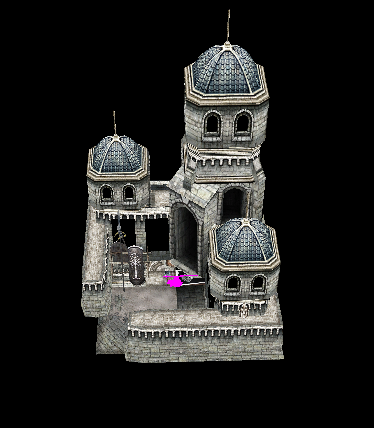
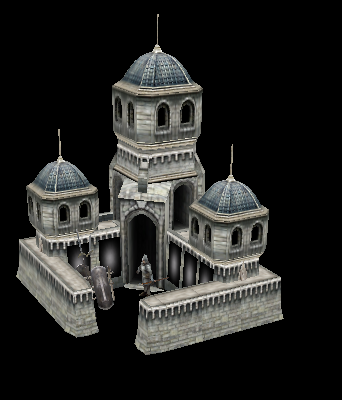
FInished skinning

diff --git a/src/chunks/material.cpp b/src/chunks/material.cpp
@@ -15,6 +15,8 @@ void MaterialPass::Load(std::ifstream & fin, uint32_t chunksize)
 
 		switch (type)
 		{
+		case TEXTURE_STAGE:
+			break;
 		case STAGE_TEXCOORDS:
 			Texcoords = readArray<Vector2f>(fin, subend);
 			break;

diff --git a/tools/w3d_view/model.cpp b/tools/w3d_view/model.cpp
@@ -179,7 +179,7 @@ void CompiledModel::ComputePose()
 		uint32_t size = bonestack.size();
 		for (int i = 0; i <size; ++i)
 		{
-			auto& b = bonestack[size-(i+1)];
+			auto& b = bonestack[i];
 			bone=b*bone;
 		}
 

diff --git a/README.md b/README.md
@@ -26,5 +26,6 @@ Parts missing is:
 - vertex colors
 - texture animation
 
-Sample screenshot of Barracks from Battle for Middleearth II
+Sample screenshot of Barracks from Battle for Middleearth II:
+
 ![Image of Gondor Barracks](img/barracks.png)
